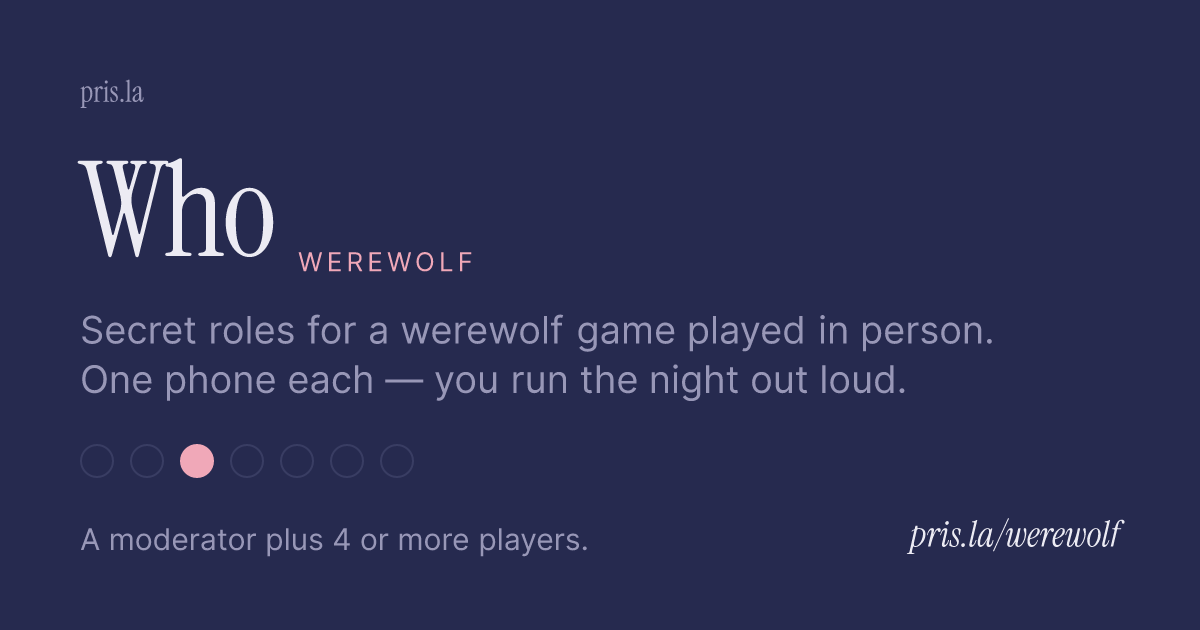
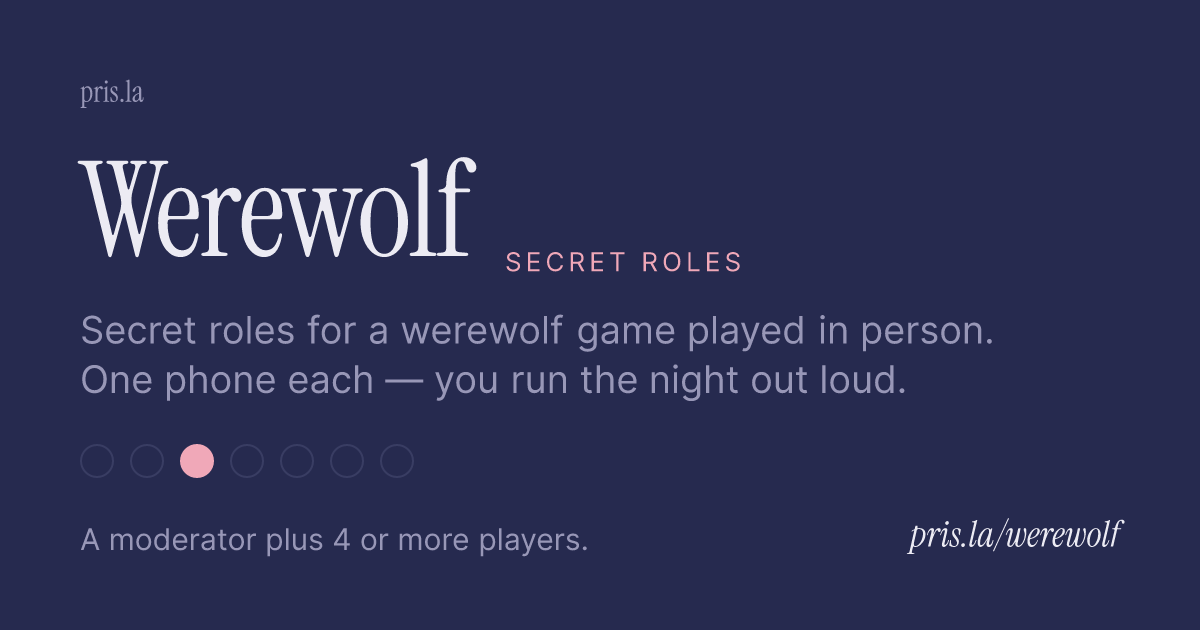
Werewolf: name the game Werewolf, not Who
The path is /werewolf, so the product should read the same. The wordmark
becomes "Werewolf" and the page title "Werewolf — secret roles for an
in-person game", across the header, <title>, OG/Twitter tags and the
share card.

The mono eyebrow used to carry "Werewolf" next to the "Who" wordmark;
with the wordmark now saying it, the eyebrow would be a repeat, so it
describes the app instead — "Secret roles". The brand lockup keeps its
glyph + display name + eyebrow shape either way.

Source headers follow suit. Internal identifiers that users never see —
the `who:` Redis prefix, the localStorage session key, the .who-brand
class — stay as they are, for the reason already documented in _lib.js:
renaming them buys nothing and would sign live rooms out mid-game.

Changed region(s): [[0.1233, 0.2413, 0.6167, 0.4524]]

diff --git a/werewolf/index.html b/werewolf/index.html
@@ -3,20 +3,20 @@
 <head>
   <meta charset="UTF-8" />
   <meta name="viewport" content="width=device-width, initial-scale=1, viewport-fit=cover" />
-  <title>Who — secret roles for werewolf</title>
+  <title>Werewolf — secret roles for an in-person game</title>
   <meta name="description" content="Deals everyone a secret role for a werewolf game played in person. The host moderates, everyone else gets their role on their own phone." />
 
   <meta property="og:type" content="website" />
   <meta property="og:site_name" content="pris.la" />
-  <meta property="og:title" content="Who — secret roles for werewolf" />
+  <meta property="og:title" content="Werewolf — secret roles for an in-person game" />
   <meta property="og:description" content="Secret roles for a werewolf game played in person. The host moderates; everyone else gets their role on their own phone." />
   <meta property="og:url" content="https://pris.la/werewolf" />
   <meta property="og:image" content="https://pris.la/werewolf/og.png" />
   <meta property="og:image:width" content="1200" />
   <meta property="og:image:height" content="630" />
-  <meta property="og:image:alt" content="Who — secret roles for werewolf" />
+  <meta property="og:image:alt" content="Werewolf — secret roles for an in-person game" />
   <meta name="twitter:card" content="summary_large_image" />
-  <meta name="twitter:title" content="Who — secret roles for werewolf" />
+  <meta name="twitter:title" content="Werewolf — secret roles for an in-person game" />
   <meta name="twitter:description" content="Secret roles for a werewolf game played in person. The host moderates; everyone else gets their role on their own phone." />
   <meta name="twitter:image" content="https://pris.la/werewolf/og.png" />
 

diff --git a/werewolf/app.js b/werewolf/app.js
@@ -1,4 +1,4 @@
-/* Who — role dealer for an in-person werewolf game. Vanilla JS SPA (no build
+/* Werewolf — role dealer for an in-person werewolf game. Vanilla JS SPA (no build
    step, matches the rest of pris.la).
 
    The app's whole job is to hand each player a private role and hand the host —
@@ -230,8 +230,8 @@
   function brand() {
     return el("div", { class: "who-brand" },
       el("span", { class: "glyph" }, "●"),
-      el("h1", null, "Who"),
-      el("span", { class: "tag" }, "Werewolf"),
+      el("h1", null, "Werewolf"),
+      el("span", { class: "tag" }, "Secret roles"),
     );
   }
 

diff --git a/werewolf/app.css b/werewolf/app.css
@@ -1,5 +1,5 @@
 /* ============================================================
-   Who — role dealer for an in-person werewolf game.
+   Werewolf — role dealer for an in-person werewolf game.
    Imports the shared pris.la tokens; everything below is local
    to /who and consumes those tokens only (no raw hex/fonts).
    ============================================================ */

diff --git a/api/werewolf/index.js b/api/werewolf/index.js
@@ -1,5 +1,5 @@
 /**
- * WHO — single entry point for the whole API.
+ * WEREWOLF — single entry point for the whole API.
  *
  * Every operation lives behind this one function, dispatched on `op`, because
  * Vercel counts each api/*.js file as a separate Serverless Function and the

diff --git a/api/werewolf/_lib.js b/api/werewolf/_lib.js
@@ -1,5 +1,5 @@
 /**
- * WHO — shared server logic.
+ * WEREWOLF — shared server logic.
  *
  * The app is a role dealer for an in-person werewolf game, not an online game
  * engine: it hands every player a private role and hands the host — who is the
